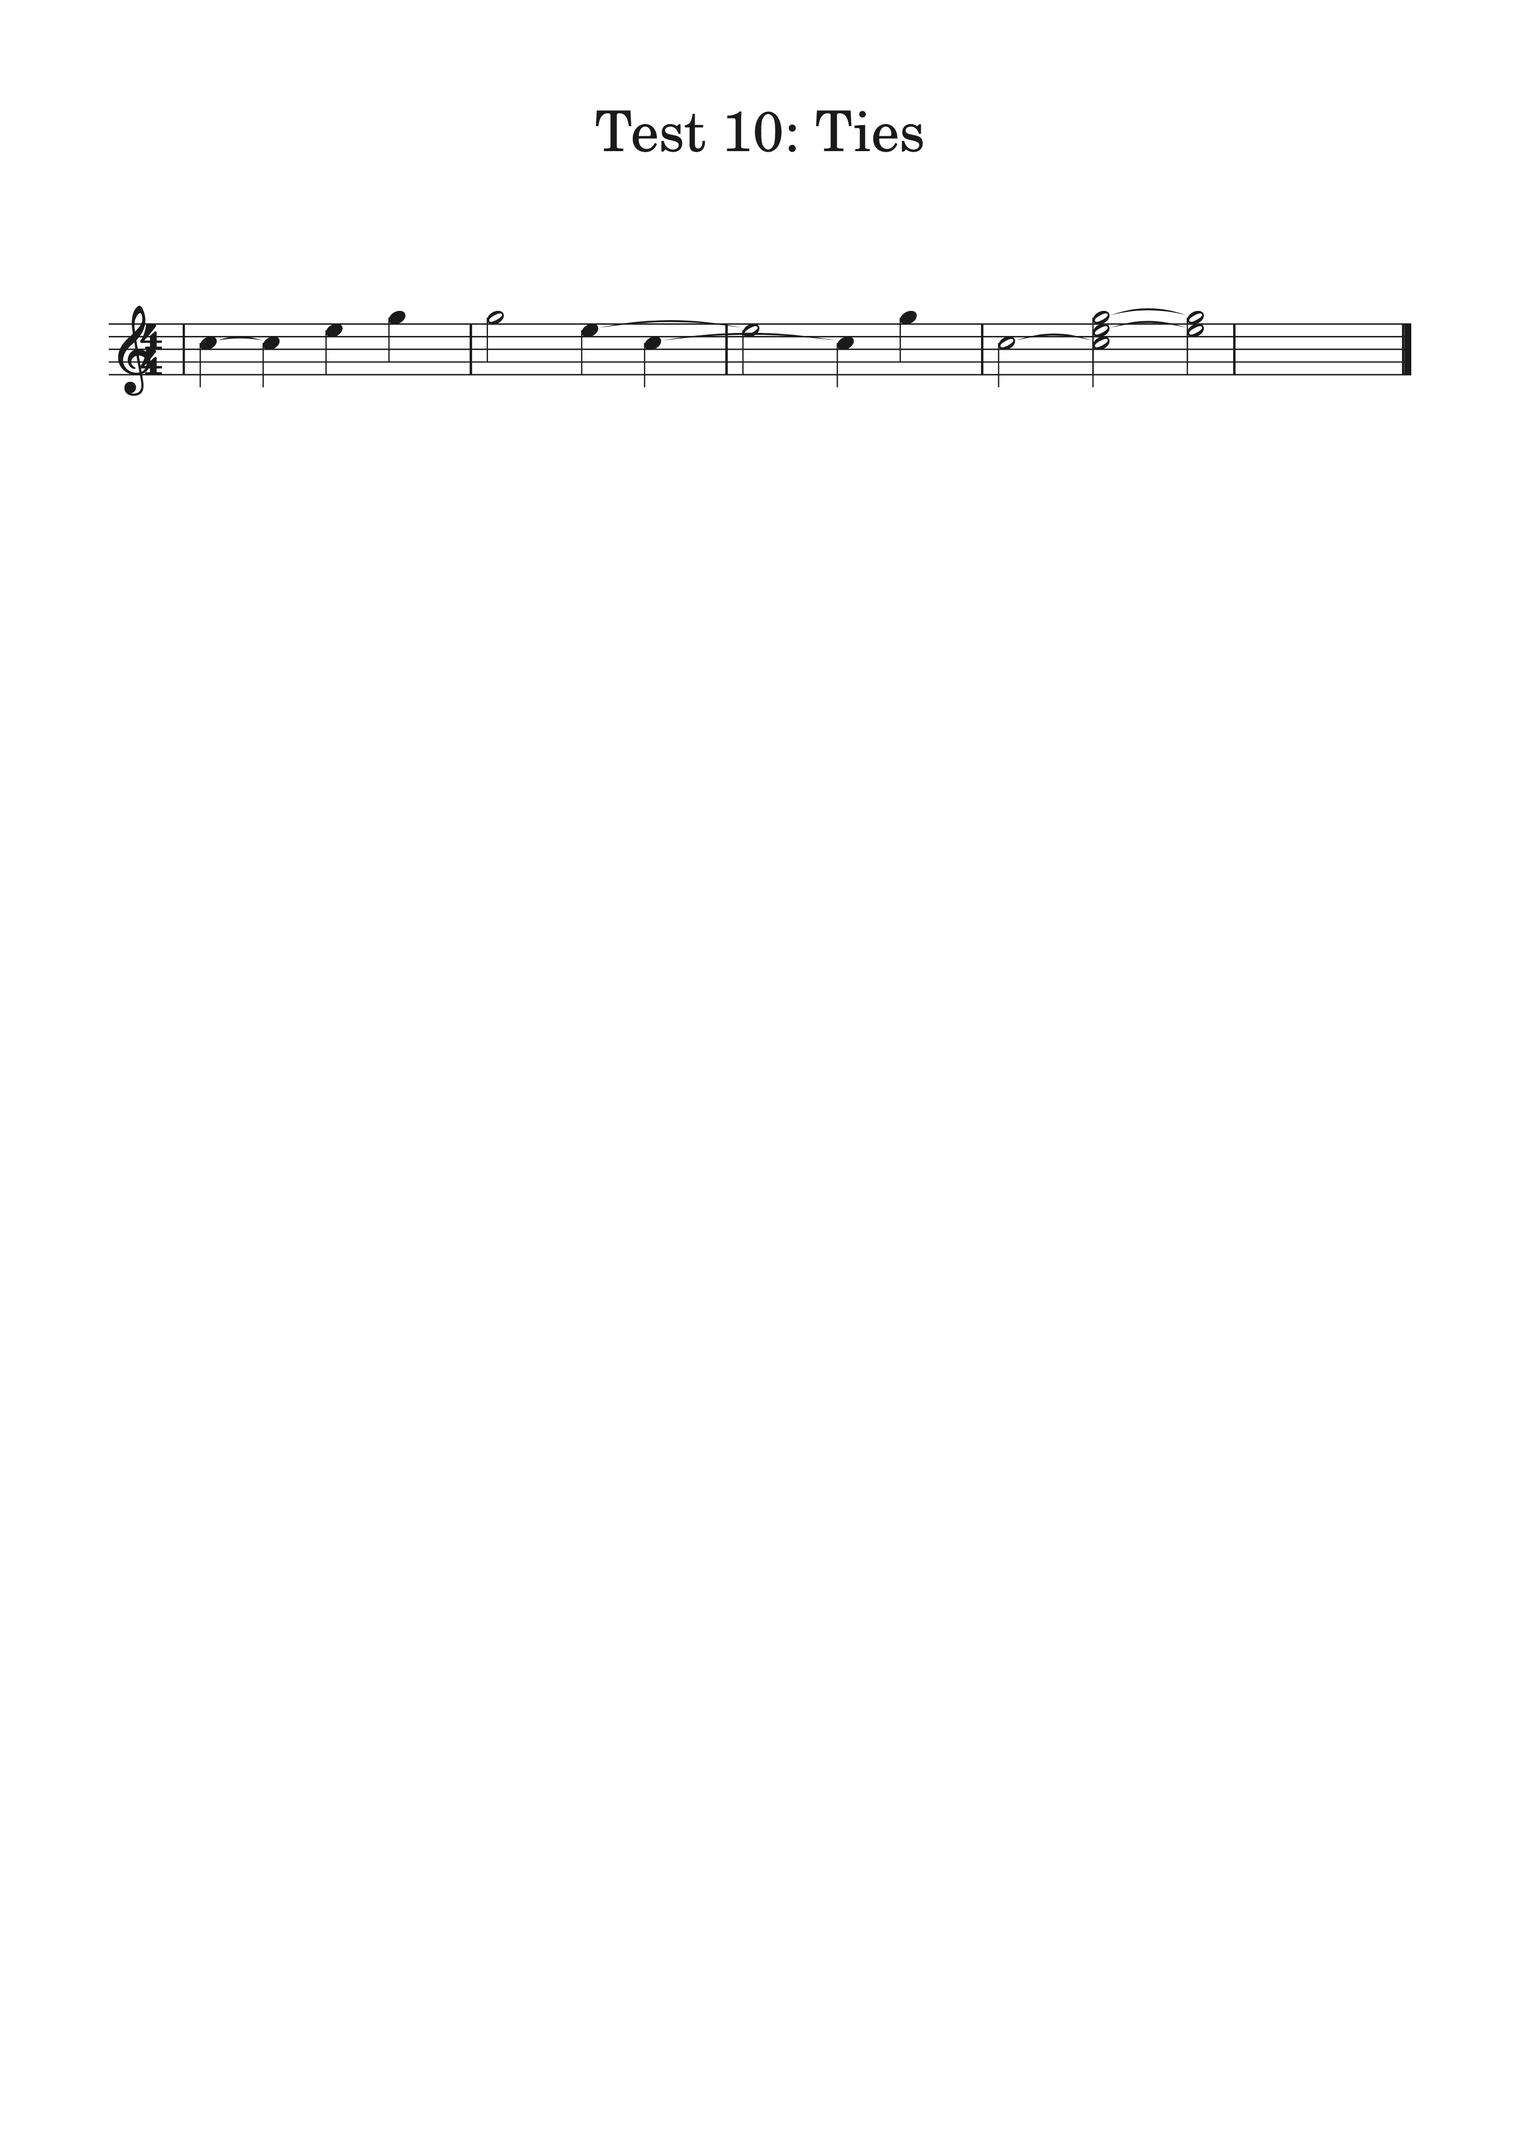
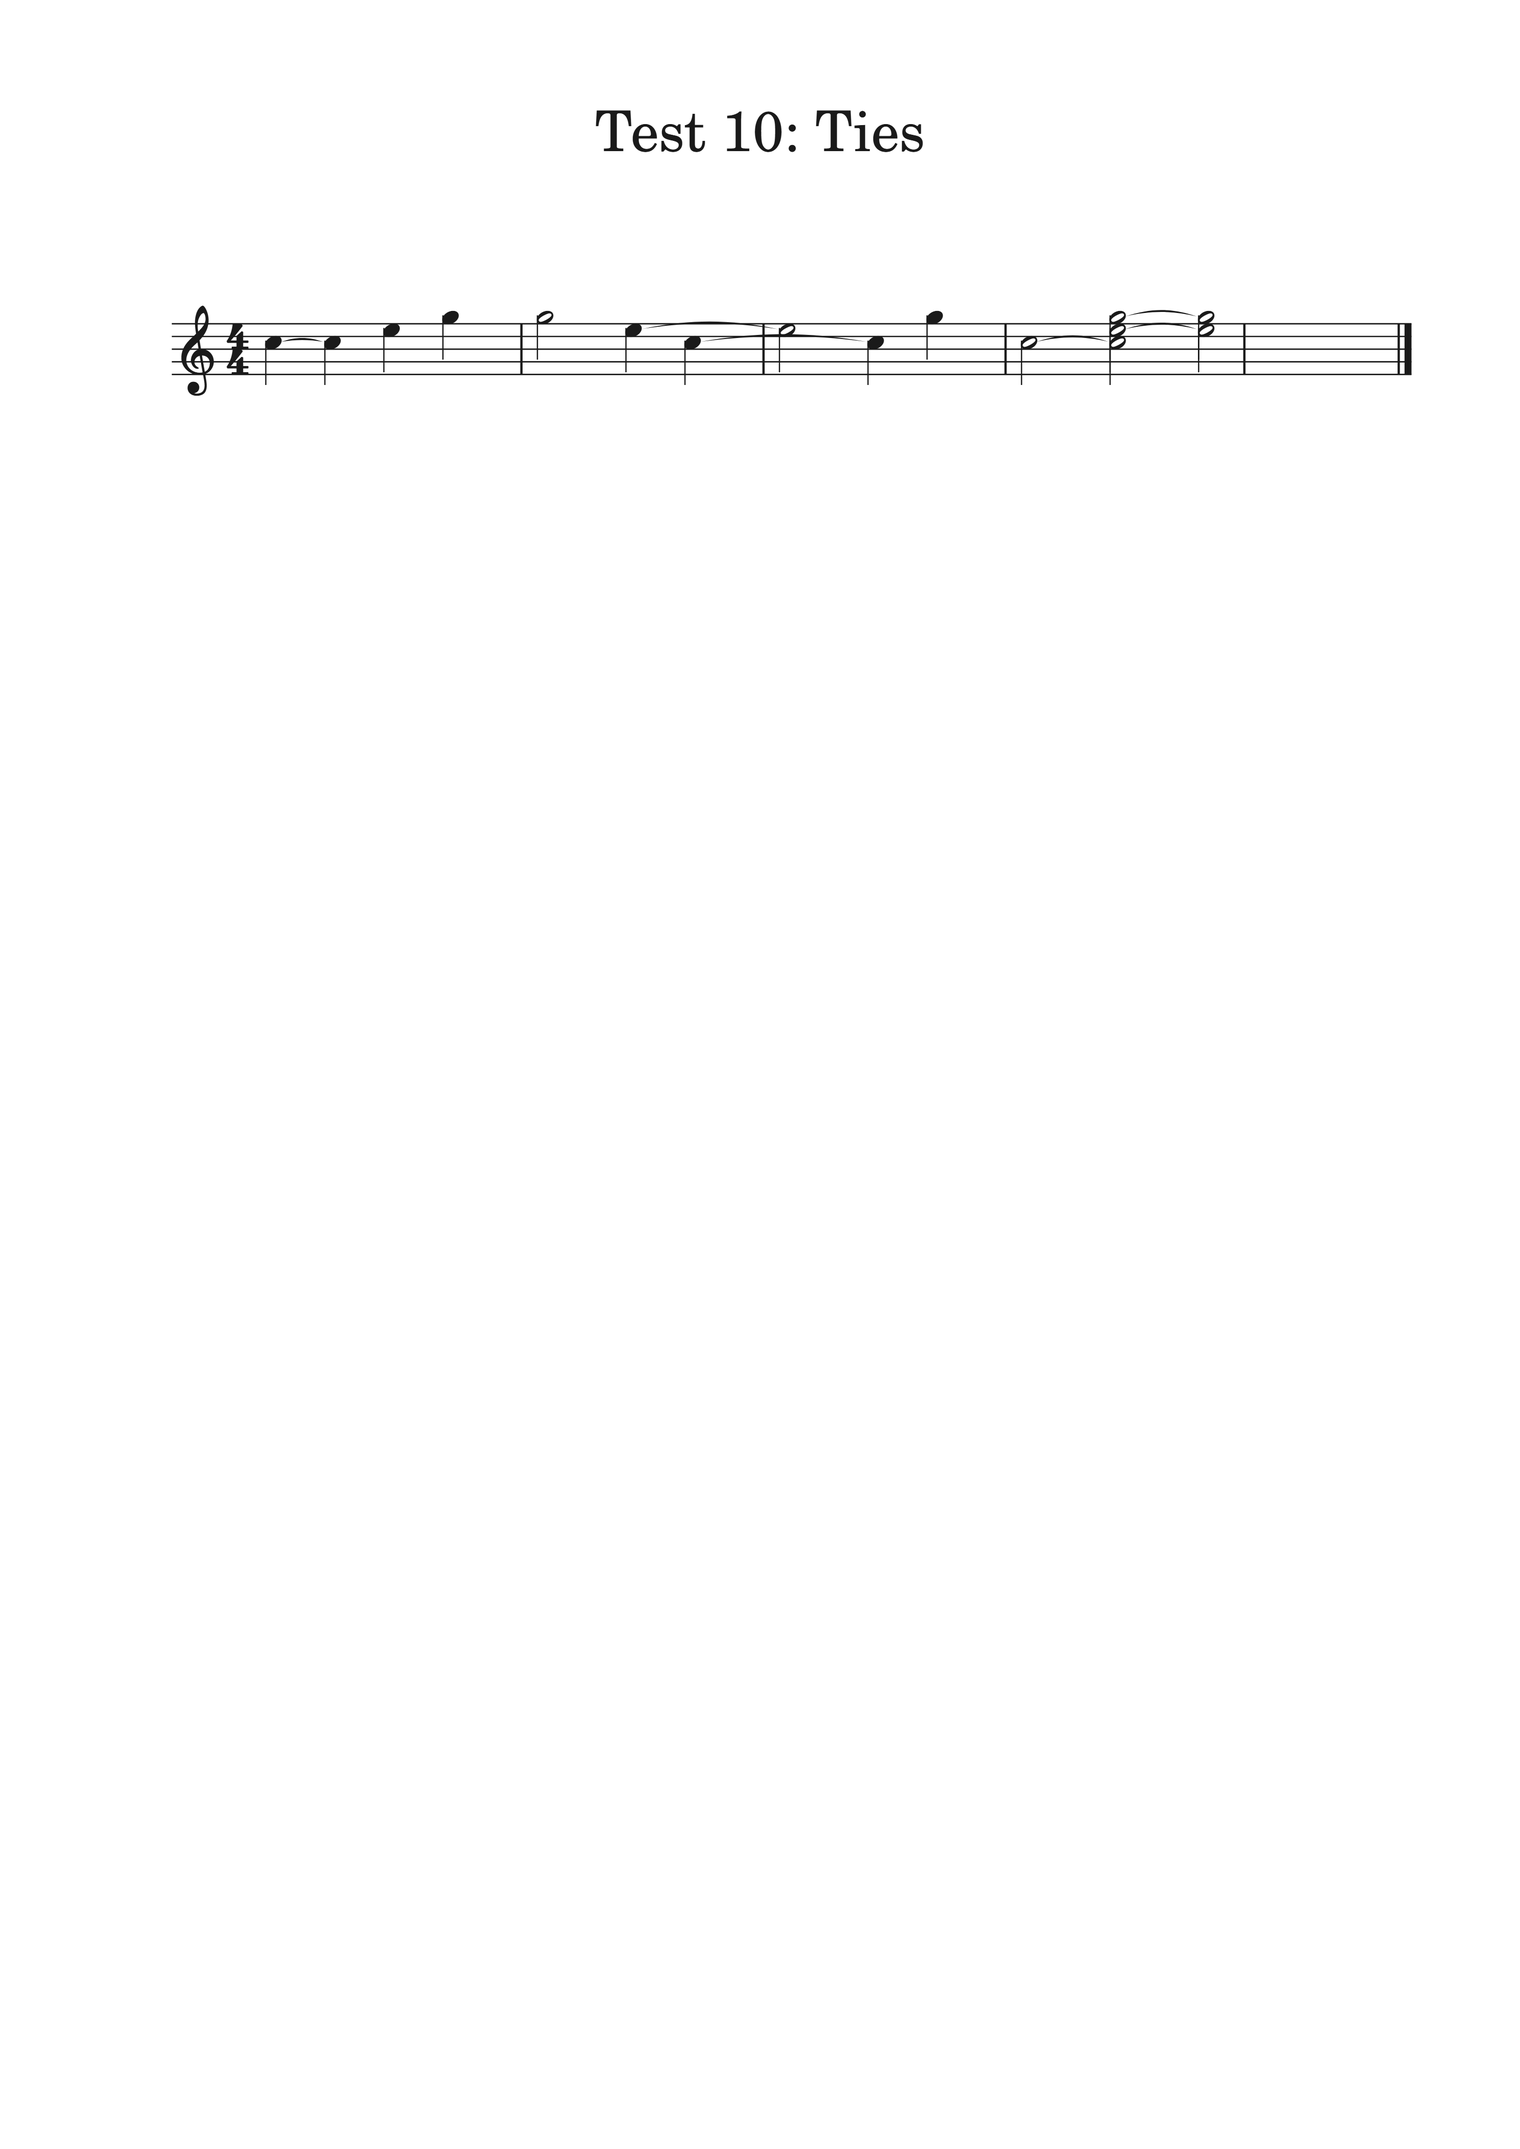
Renderer: squeeze tolerance in collectSystems() — fix system break
MuseScore C++ uses acceptanceRange = squeezability(0.3) × squeezableSpace
to allow a system to overflow targetWidth slightly before forcing a line break.

Our hard cutoff (currentWidth + mw <= maxW) was too aggressive — M5 (16
sixteenth notes) was going to system 2 instead of fitting on system 1.

Fix:
- collectSystems(): add measureSqueezable param, compute tentativeSqueezable
  at each candidate measure, use acceptanceRange = 0.3 × tentativeSqueezable
- computeMeasureSqueezable(): new export in LayoutSystem.ts
  (squeezable per segment = max(0, segWidth - 1.68sp * sp))
- LayoutOrchestrator: compute globalMeasureSqueeze map and pass to collectSystems()

Test 01-noteheads system break now matches reference: [M1-M5 | M6]

diff --git a/src/renderer/engine/LayoutOrchestrator.ts b/src/renderer/engine/LayoutOrchestrator.ts
@@ -29,6 +29,7 @@ import {
   CLEF_LEFT_MARGIN_SP, CLEF_GLYPH_WIDTH_SP, CLEF_KEY_DIST_SP, CLEF_TIMESIG_DIST_SP,
   KEY_ACC_STRIDE_SP, KEY_TIMESIG_DIST_SP, TIMESIG_GLYPH_WIDTH_SP, SYS_HDR_TIMESIG_SP,
   BAR_NOTE_DIST_SP,
+  FIRST_SYSTEM_INDENT_SP,
 } from '../horizontalLayout'
 
 // Engine computation functions
@@ -38,7 +39,7 @@ import {
   type MeasureSegment,
 } from './layout/LayoutMeasure'
 import {
-  collectSystems, justifySystem, shouldJustifyLastSystem,
+  collectSystems, justifySystem, shouldJustifyLastSystem, computeMeasureSqueezable,
   type SystemSpring,
 } from './layout/LayoutSystem'
 
@@ -101,20 +102,29 @@ export function orchestrateHorizontalLayout(
   const globalMinDur = clampMinDur(findGlobalMinDur(allSegments))
 
   // ── 4. Measure widths (global stretch) for greedy system breaking ────────
-  const globalMeasureWidths: Map<number, number> = new Map()
+  const globalMeasureWidths:  Map<number, number> = new Map()
+  const globalMeasureSqueeze: Map<number, number> = new Map()
   for (const [mNum, segs] of allSegments) {
-    const pad    = firstNotePads.get(mNum) ?? 0
-    const segWs  = computeSegmentWidths(segs, globalMinDur, sp)
+    const pad   = firstNotePads.get(mNum) ?? 0
+    const segWs = computeSegmentWidths(segs, globalMinDur, sp)
     globalMeasureWidths.set(mNum, computeMeasureWidth(pad, segWs, sp))
+    globalMeasureSqueeze.set(mNum, computeMeasureSqueezable(segWs, sp))
   }
 
   // ── 5. System header for greedy break ────────────────────────────────────
   const headerWidth = computeHeaderWidth(metadata.fifths, sp)
   const usableWidth = opts.pageWidth - opts.marginLeft - opts.marginRight
 
+  // First-system indent — shifts system 0 right by 5sp, reducing its usable width.
+  // From MuseScore: src/engraving/style/styledef.cpp:449
+  //   Sid::firstSystemIndentationValue = Spatium(5.0)
+  const firstSysIndentPx    = FIRST_SYSTEM_INDENT_SP * sp
+  const firstSysUsableWidth = usableWidth - firstSysIndentPx
+
   // ── 6. Greedy system breaking ─────────────────────────────────────────────
   // C++: LayoutSystem::collectSystem() — layoutsystem.cpp:62
-  const systemGroups = collectSystems(globalMeasureWidths, headerWidth, usableWidth)
+  // Pass firstSysUsableWidth so system 0 gets fewer measures than later systems.
+  const systemGroups = collectSystems(globalMeasureWidths, headerWidth, usableWidth, firstSysUsableWidth, globalMeasureSqueeze)
 
   // ── 7. Page geometry ──────────────────────────────────────────────────────
   const sysH          = (4 + opts.systemSpacingSp) * sp
@@ -163,10 +173,13 @@ export function orchestrateHorizontalLayout(
 
     // ── Spring model justification (C++: layoutsystem.cpp:496) ──────────────
     // Springs: one per measure.  stretch ∝ note content (= noteArea itself).
-    // targetWidth = usableWidth - sysHeaderWidth
-    // curWidth    = sum of all measure widths (incl. pad + trailing)
+    // First system has smaller usable width (due to first-system indent).
+    const isFirstSystem  = sysIdx === 0
+    const sysUsableWidth = isFirstSystem ? firstSysUsableWidth : usableWidth
+    const sysX           = opts.marginLeft + (isFirstSystem ? firstSysIndentPx : 0)
+
     const totalMeasureWidth = mNums.reduce((s, mn) => s + (sysMeasureWidths.get(mn) ?? 0), 0)
-    const targetWidth       = usableWidth - sysHeaderWidth
+    const targetWidth       = sysUsableWidth - sysHeaderWidth
 
     const springs: SystemSpring[] = mNums.map(mNum => {
       const segs   = allSegments.get(mNum) ?? []
@@ -191,13 +204,16 @@ export function orchestrateHorizontalLayout(
     }
 
     // Build HLayoutSystem record
+    // From MuseScore: src/engraving/style/styledef.cpp:449
+    //   Sid::firstSystemIndentationValue = Spatium(5.0)
+    // System 0: x shifted right by 5sp, width reduced by 5sp.
     const system: HLayoutSystem = {
       systemIndex:     sysIdx,
       pageIndex:       pageIdx,
       measureNums:     mNums,
-      x:               opts.marginLeft,
+      x:               sysX,
       y:               0,
-      width:           usableWidth,
+      width:           sysUsableWidth,
       headerWidth:     sysHeaderWidth,
       currentFifths:   sysState.fifths,
       currentBeats:    sysState.beats,
@@ -206,8 +222,8 @@ export function orchestrateHorizontalLayout(
     systems.push(system)
     pageSysIndices.push(sysIdx)
 
-    // Place measures and notes
-    let measureX = opts.marginLeft + sysHeaderWidth
+    // Place measures and notes — start from system.x (accounts for first-system indent)
+    let measureX = sysX + sysHeaderWidth
 
     for (let mi = 0; mi < mNums.length; mi++) {
       const mNum  = mNums[mi]
@@ -376,13 +392,20 @@ function computeFirstNotePad(
  * C++: System::layout() — system.cpp — computes header element positions.
  */
 function computeHeaderWidth(fifths: number, sp: number): number {
+  // C++: System::layout() ends the header at the right edge of the time signature glyph.
+  // The gap from timeSig right to first note = SYS_HDR_TIMESIG_SP (2.0sp) is handled
+  // by firstNotePad of the FIRST measure, NOT added to the header width.
+  // Including SYS_HDR_TIMESIG_SP here would double-count it and push all notes 2sp too far right.
+  // Verified: reference first note at sysX + (6.078sp) + (1.3sp barNoteDistance) ≈ measureX + BAR_NOTE_DIST.
+  // From horizontalLayout.ts — same fix applied there.
   const hasFifths    = Math.abs(fifths) > 0
   const keySigWidthSp = Math.abs(fifths) * KEY_ACC_STRIDE_SP
   const gapAfterClef  = hasFifths
     ? CLEF_KEY_DIST_SP + keySigWidthSp + KEY_TIMESIG_DIST_SP
     : CLEF_TIMESIG_DIST_SP
   return (CLEF_LEFT_MARGIN_SP + CLEF_GLYPH_WIDTH_SP + gapAfterClef
-    + TIMESIG_GLYPH_WIDTH_SP + SYS_HDR_TIMESIG_SP) * sp
+    + TIMESIG_GLYPH_WIDTH_SP) * sp
+  // NOTE: SYS_HDR_TIMESIG_SP is NOT added here. firstNotePad of the first measure provides this gap.
 }
 
 // ─── Helper: min duration ────────────────────────────────────────────────────

diff --git a/src/renderer/engine/layout/LayoutSystem.ts b/src/renderer/engine/layout/LayoutSystem.ts
@@ -103,47 +103,86 @@ export function justifySystem(
 // ─────────────────────────────────────────────────────────────────────────────
 
 /**
+ * Squeeze tolerance factor.
+ * C++: layoutsystem.cpp:98 — squeezability = 0.3
+ * A system can overflow targetWidth by up to squeezability × squeezableSpace
+ * before a line break is forced.
+ */
+const SQUEEZABILITY = 0.3
+
+/**
+ * Absolute minimum note horizontal distance (no stretch).
+ * C++: measure.cpp:4259 — minHorizontalDistance = noteHeadWidth + minNoteDistance
+ *   = 1.18sp + 0.5sp = 1.68sp
+ * Used to compute per-segment squeezable space = minStretchedWidth - minHorizDist.
+ */
+const MIN_HORIZ_DIST_SP = 1.68
+
+/**
  * Greedy system breaking.
  *
  * C++: layoutsystem.cpp:62–470 — collectSystem()
  * Algorithm: add measures one by one; when adding the next measure would exceed
- * targetWidth, start a new system.
+ * targetWidth + acceptanceRange, start a new system.
  *
  * C++: layoutsystem.cpp:428–431
  *   if last system AND curSysWidth/targetWidth < lastSystemFillLimit → do NOT justify
  *
- * @param measureWidths     Minimum widths of each measure in pixels (1-based index)
- * @param headerWidth       Width of system header (clef + key + time sig) in pixels
- * @param usableWidth       Target system width (page width - margins) in pixels
- * @returns                 Array of measure-number arrays, one per system
+ * C++: layoutsystem.cpp:96–100 — squeeze tolerance
+ *   acceptanceRange = squeezability * system->squeezableSpace()
+ *   doBreak = measures.size() > 1 && (curSysWidth + ww > targetSystemWidth + acceptanceRange)
+ *
+ * @param measureWidths       Minimum widths of each measure in pixels (1-based index)
+ * @param headerWidth         Width of system header (clef + key + time sig) in pixels
+ * @param usableWidth         Target system width (page width - margins) in pixels
+ * @param firstSystemWidth    Optional smaller width for system 0 (first-system indent)
+ * @param measureSqueezable   Optional per-measure squeezable space in pixels (for acceptance range)
+ * @returns                   Array of measure-number arrays, one per system
  */
 export function collectSystems(
-  measureWidths: Map<number, number>,
-  headerWidth: number,
-  usableWidth: number,
+  measureWidths:      Map<number, number>,
+  headerWidth:        number,
+  usableWidth:        number,
+  firstSystemWidth?:  number,
+  measureSqueezable?: Map<number, number>,
 ): number[][] {
   const systems: number[][] = []
   let currentSystem: number[] = []
   let currentWidth = headerWidth
+  let currentSqueezable = 0   // total squeezable px in current system
 
   const mNums = [...measureWidths.keys()].sort((a, b) => a - b)
 
   for (const mNum of mNums) {
-    const mw = measureWidths.get(mNum) ?? 0
+    const mw          = measureWidths.get(mNum) ?? 0
+    const mSqueezable = measureSqueezable?.get(mNum) ?? 0
+    // First system uses firstSystemWidth (if provided); subsequent use usableWidth
+    const maxW = (systems.length === 0 && firstSystemWidth !== undefined)
+      ? firstSystemWidth
+      : usableWidth
 
     if (currentSystem.length === 0) {
       // First measure of system: always include
       currentSystem.push(mNum)
-      currentWidth += mw
-    } else if (currentWidth + mw <= usableWidth) {
-      // Fits: add to current system
-      currentSystem.push(mNum)
-      currentWidth += mw
+      currentWidth      += mw
+      currentSqueezable += mSqueezable
     } else {
-      // Doesn't fit: start new system
-      systems.push(currentSystem)
-      currentSystem = [mNum]
-      currentWidth = headerWidth + mw
+      // C++: acceptanceRange computed including the candidate measure (tentative add)
+      const tentativeSqueezable = currentSqueezable + mSqueezable
+      const acceptanceRange     = SQUEEZABILITY * tentativeSqueezable
+
+      if (currentWidth + mw <= maxW + acceptanceRange) {
+        // Fits (possibly with squeeze): add to current system
+        currentSystem.push(mNum)
+        currentWidth      += mw
+        currentSqueezable += mSqueezable
+      } else {
+        // Doesn't fit even with squeeze: start new system
+        systems.push(currentSystem)
+        currentSystem     = [mNum]
+        currentWidth      = headerWidth + mw
+        currentSqueezable = mSqueezable
+      }
     }
   }
 
@@ -152,6 +191,19 @@ export function collectSystems(
   }
 
   return systems
+}
+
+/**
+ * Compute total squeezable space for a set of segment widths.
+ * C++: measure.cpp — squeezableSpace = minStretchedWidth - minHorizontalDist
+ *
+ * @param segmentWidths  Per-segment widths in pixels (from computeSegmentWidths)
+ * @param sp             Spatium in pixels
+ * @returns              Total squeezable pixels for this measure
+ */
+export function computeMeasureSqueezable(segmentWidths: number[], sp: number): number {
+  const minHorizPx = MIN_HORIZ_DIST_SP * sp
+  return segmentWidths.reduce((sum, w) => sum + Math.max(0, w - minHorizPx), 0)
 }
 
 // ─────────────────────────────────────────────────────────────────────────────

diff --git a/CLAUDE.md b/CLAUDE.md
@@ -360,7 +360,7 @@ Annotations stored in `annotationStore`. Auto-saved to IndexedDB. Rendered by `A
 | 3 | Horizontal layout + דף בדיקה `/renderer-test` | ✅ הושלם — **Checkpoint A** |
 | 4 | Vertical layout + stems + beams + accidentals | ✅ הושלם — `verticalLayout.ts` |
 | 5 | SVG renderer (Unicode glyphs) | ✅ נבנה — Checkpoint B **לא אושר** — 8 בעיות ויזואליות |
-| 5.5 | Bugfix Pass — pixel comparison vs webmscore | 🔄 בעבודה — 0/15 pass, ~99.1–99.8% match. תוקן: noteX=left-edge, noteheadWidth=1.3sp, stemX=right/left edge. **הגישה הנכונה: קרא C++ → תרגם TS. ר' RENDERER_MAP.md לכלל העבודה המוחלט.** WYSIWYG confirmed: L1↔L2 = 100% (0 CSS regressions). כל diff שנותר הוא logic bug בלבד. |
+| 5.5 | Bugfix Pass — pixel comparison vs webmscore | 🔄 בעבודה — 0/15 pass, ~99.1–99.8% match. תוקן: noteX=left-edge, noteheadWidth=1.3sp, stemX=right/left edge. **הגישה הנכונה: קרא C++ → תרגם TS.** WYSIWYG confirmed: L1↔L2 = 100% (0 CSS regressions). כל diff שנותר הוא logic bug בלבד. **תוקן בסשן אחרון: squeeze tolerance ב-collectSystems() — acceptanceRange=0.3×squeezableSpace, system break עכשיו תואם MuseScore (M5 על system 1 ב-01-noteheads). horizontalLayout.ts::placeSystem() = DEAD CODE (LayoutOrchestrator.ts הוא הקוד הפעיל).** |
 | 5.6 | Dual-layer testing + WYSIWYG fix | ✅ הושלם — `/app-test` route, `app-integration.spec.ts` (Layer 2), `compare-layers.ts`, font-guard + CSS isolation. 15/15 WYSIWYG match. |
 | 6 | אינטגרציה ב-MAP, הסרת Verovio | ⬜ **Checkpoint C** |
 | 7 | Classical full support (SATB, tuplets, voltas) | ⬜ |
